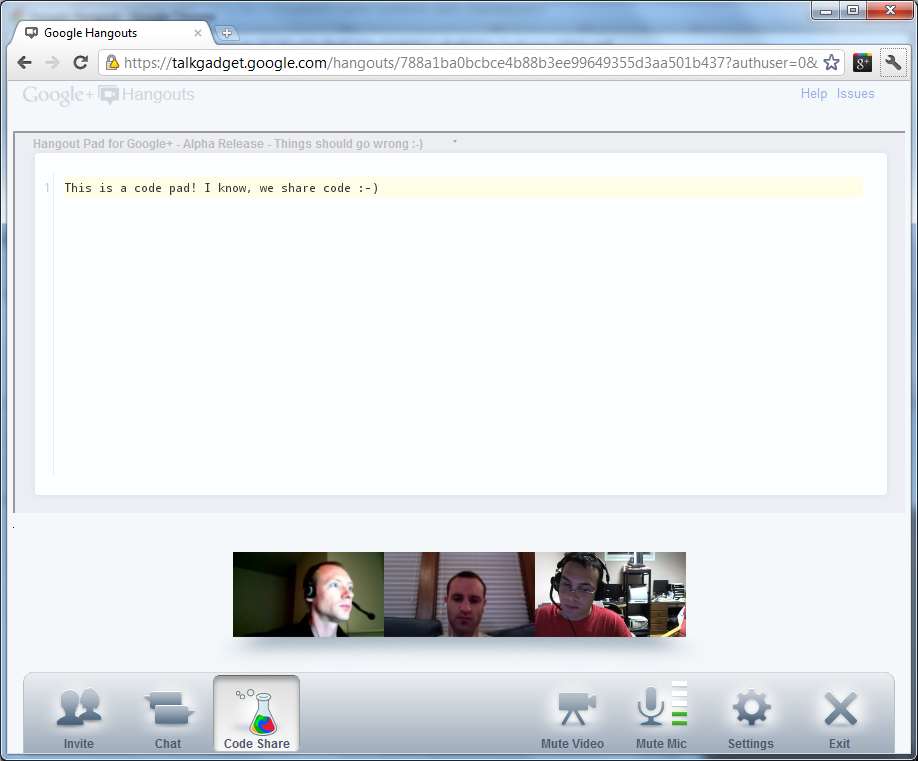
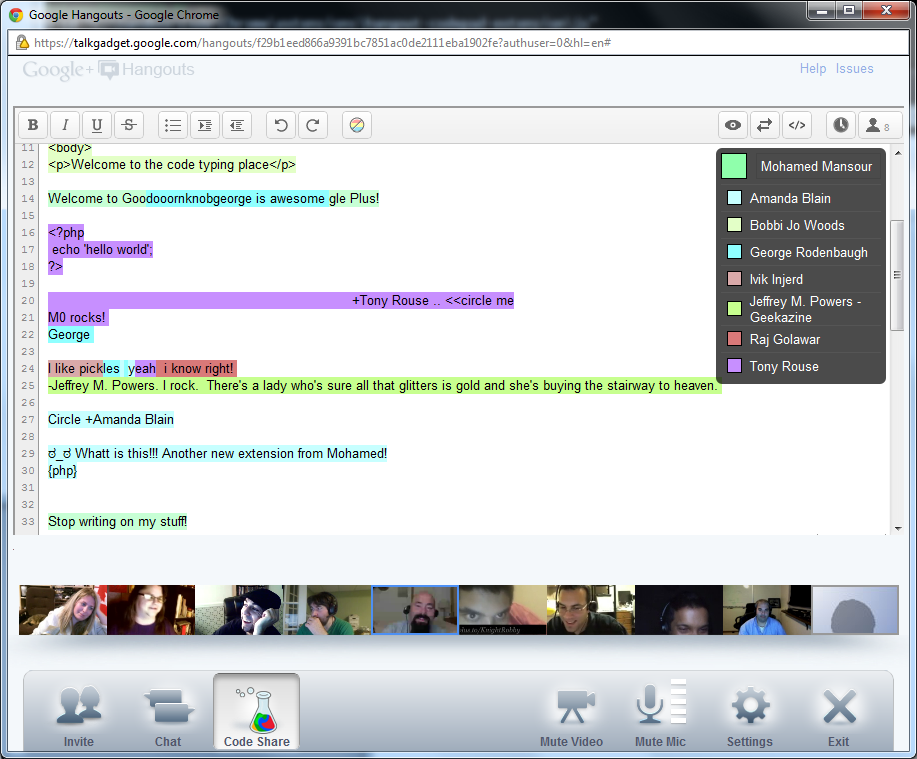
Integrate Etherpad Lite as the document collaboration.

diff --git a/js/background_controller.js b/js/background_controller.js
@@ -5,9 +5,9 @@
  * @constructor
  */
 BackgroundController = function() {
+  this.hangout_id = null;
   this.participants = [];
   this.session_participants = null;
-  this.hangout_part_join_pattern = /^(.*) (joined|left) group chat\.$/;
   this.hangout_tab_id = -1;
   this.talk_injected = false;
   this.waveData = {};
@@ -85,16 +85,12 @@ BackgroundController.prototype.onExtensionRequest = function(request, sender, se
     this.onParticipantsReceived(request.data);
     sendResponse({});
   }
-  else if (request.method == 'ChatReceived') {
-    this.onChatReceived(request.data);
-    sendResponse({});
-  }
   else if (request.method == 'LabStarted') {
     this.onLabStarted();
     sendResponse({});
   }
   else if (request.method == 'HangoutTabCreated') {
-    this.onHangoutTabCreated(sender.tab.id);
+    this.onHangoutTabCreated(sender.tab);
     sendResponse({});
   }
   else if (request.method == 'TalkInjected') {
@@ -133,42 +129,14 @@ BackgroundController.prototype.onLabStarted = function() {
 };
 
 /**
- * Event when a chat message has been received.
- *
- * @param {Object} data The chat response object.
- */
-BackgroundController.prototype.onChatReceived = function(data) {
-  console.log('ChatReceived', data);
-  if (data.from == 'g') { // Google Event
-    var matchJoinPart = data.line.match(this.hangout_part_join_pattern);
-    if (matchJoinPart) {
-      var name = matchJoinPart[1];
-      var state = matchJoinPart[2];
-      if (state == 'joined') {
-        this.onJoin(name);
-      }
-      else { // left
-        this.onPart(name);
-      }
-    }
-  }
-};
-
-/**
  * When the gadget initially loaded.
  */
 BackgroundController.prototype.onGadgetInit = function() {
   var codrID = this.waveData.code;
   if (!codrID) {
-    var req = new XMLHttpRequest();
-    req.open('GET', 'http://codr.cc', false);
-    req.send(null);
-    if (req.status == 200) {
-      var matches = req.responseText.match(/value="http:\/\/codr\.cc\/([a-z0-9]+)"/);
-      if (matches) {
-        codrID = matches[1];
-        this.sendToHangoutTab({method: 'SendMessage', data: {code: codrID}});
-      }
+    if (this.hangout_id) {
+      codrID = this.hangout_id;
+      this.sendToHangoutTab({method: 'SendMessage', data: {code: codrID}});
     }
   }
   return codrID;
@@ -217,8 +185,15 @@ BackgroundController.prototype.onParticipantsReceived = function(data) {
  *
  * @param {Object} tab The current tab that the browser action is referring to.
  */
-BackgroundController.prototype.onHangoutTabCreated = function(tabid) {
-  this.hangout_tab_id = tabid;
+BackgroundController.prototype.onHangoutTabCreated = function(tab) {
+  var match = tab.url.match(/https:\/\/talkgadget\.google\.com\/hangouts\/([a-z0-9]+)/);
+  if (match) {
+    this.hangout_id = match[1];
+  }
+  else {
+    console.log('Something really wrong happened: ' + tab.url);
+  }
+  this.hangout_tab_id = tab.id;
   this.waveData = {};
 };
 

diff --git a/js/n-code/base.js b/js/n-code/base.js
@@ -17,7 +17,7 @@ else {
 
 var onGadgetInit = function(response) {
   if (response.method == 'GadgetInit') {
-    codeFrame.src = 'http://codr.cc/' + response.data;
+    codeFrame.src = 'http://beta.etherpad.org/p/' + response.data + '?showChat=false';
     document.body.appendChild(codeFrame);
   }
 };

diff --git a/code.html b/code.html
@@ -8,6 +8,5 @@
   <script type="text/javascript" src="/js/n-code/base.js"></script>  
 </head>
 <body>
-  <h1 class="title">Hangout Pad for Google+ - Alpha Release - Things should go wrong :-)</h1>
 </body>
 </html>

diff --git a/css/game.css b/css/game.css
@@ -2,6 +2,7 @@ body {
   margin: 0;
   padding: 0;
   overflow: hidden;
+  height: 100%;
 }
 #gameboard {
   border: 1px dotted;
